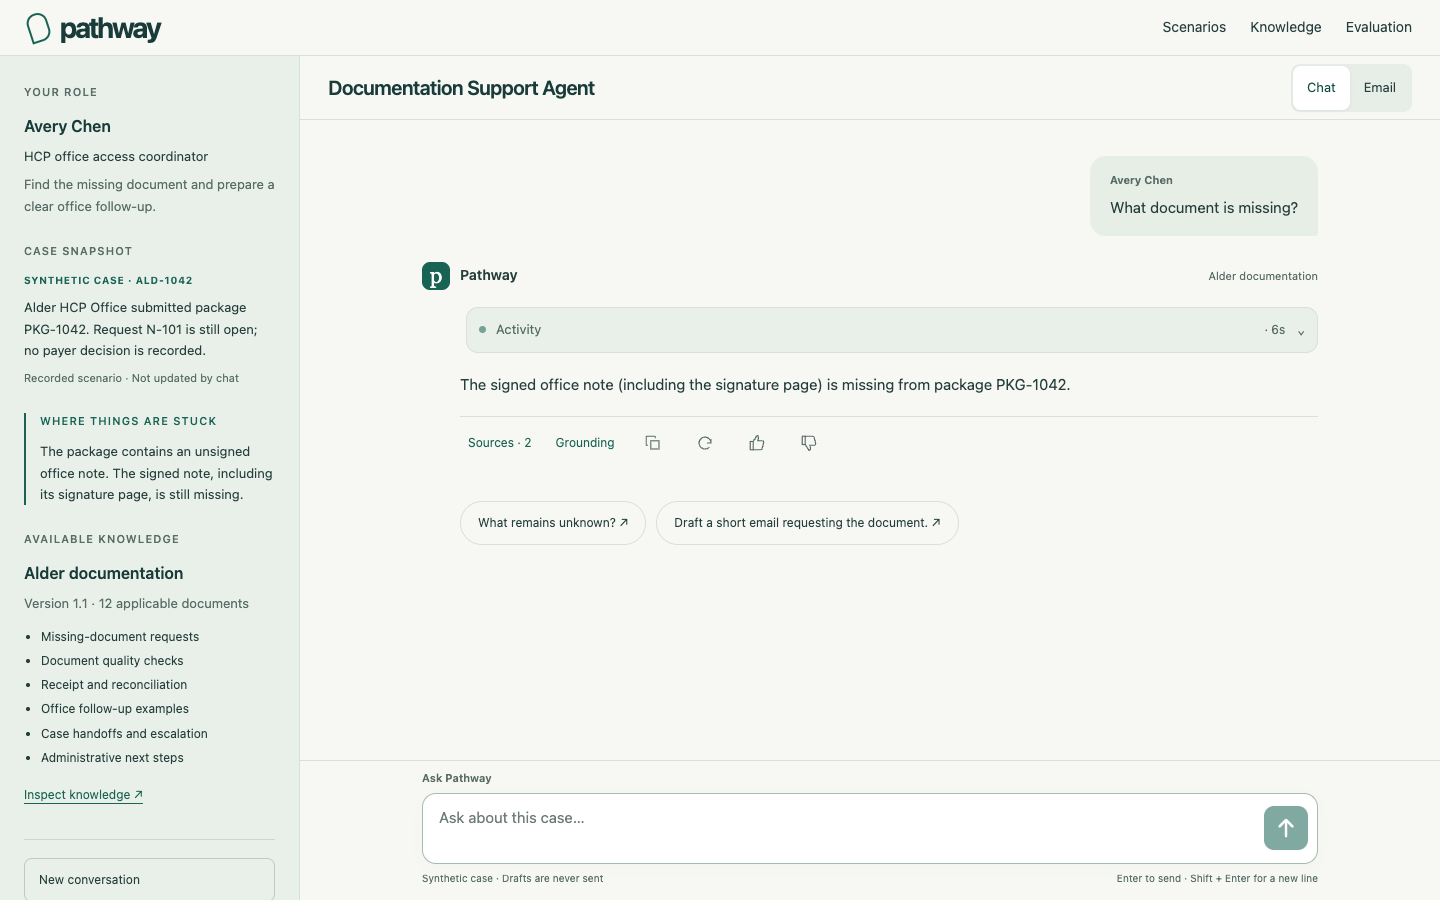
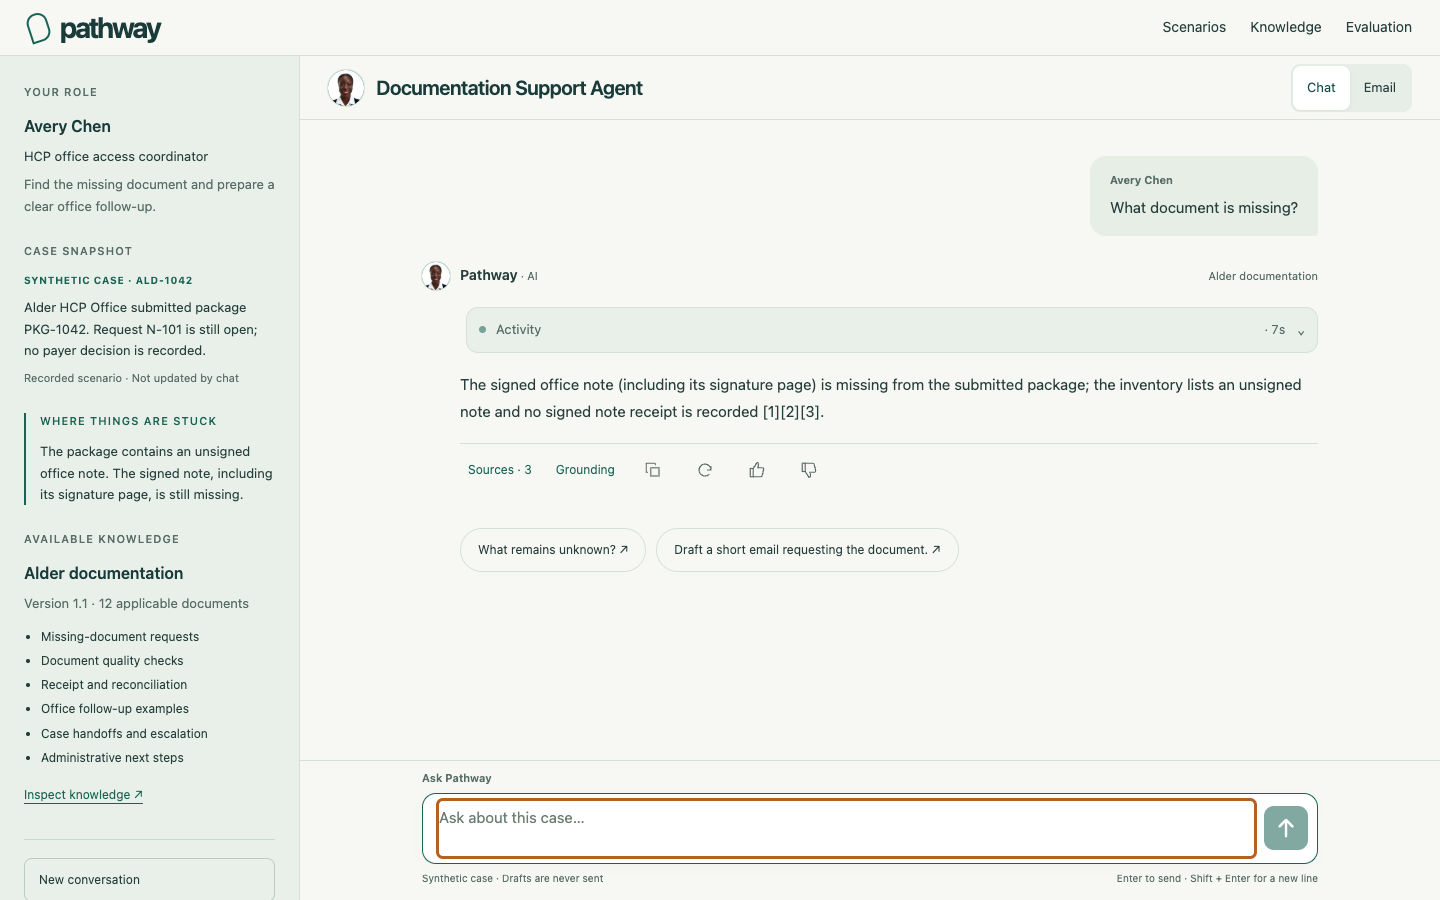
Tell Pathway's RAG experiment story with current screenshots

diff --git a/src/lib/project-architecture.ts b/src/lib/project-architecture.ts
@@ -13,9 +13,9 @@ export const projectArchitecture: Record<string, ProjectArchitecture> = {
   },
   pathway: {
     steps: [
-      { title: 'Start with the case', technology: 'Web workspace · TypeScript service' },
-      { title: 'Retrieve the evidence', technology: 'PostgreSQL · pgvector' },
-      { title: 'Answer with sources', technology: 'OpenAI Responses · citation checks' },
+      { title: 'Choose a role and case', technology: 'Web workspace · Render' },
+      { title: 'Find relevant passages', technology: 'Supabase · PostgreSQL · pgvector' },
+      { title: 'Answer with sources', technology: 'GPT-5 mini · citation checks' },
     ],
     note: 'Evidence stays attached for human review.',
   },
